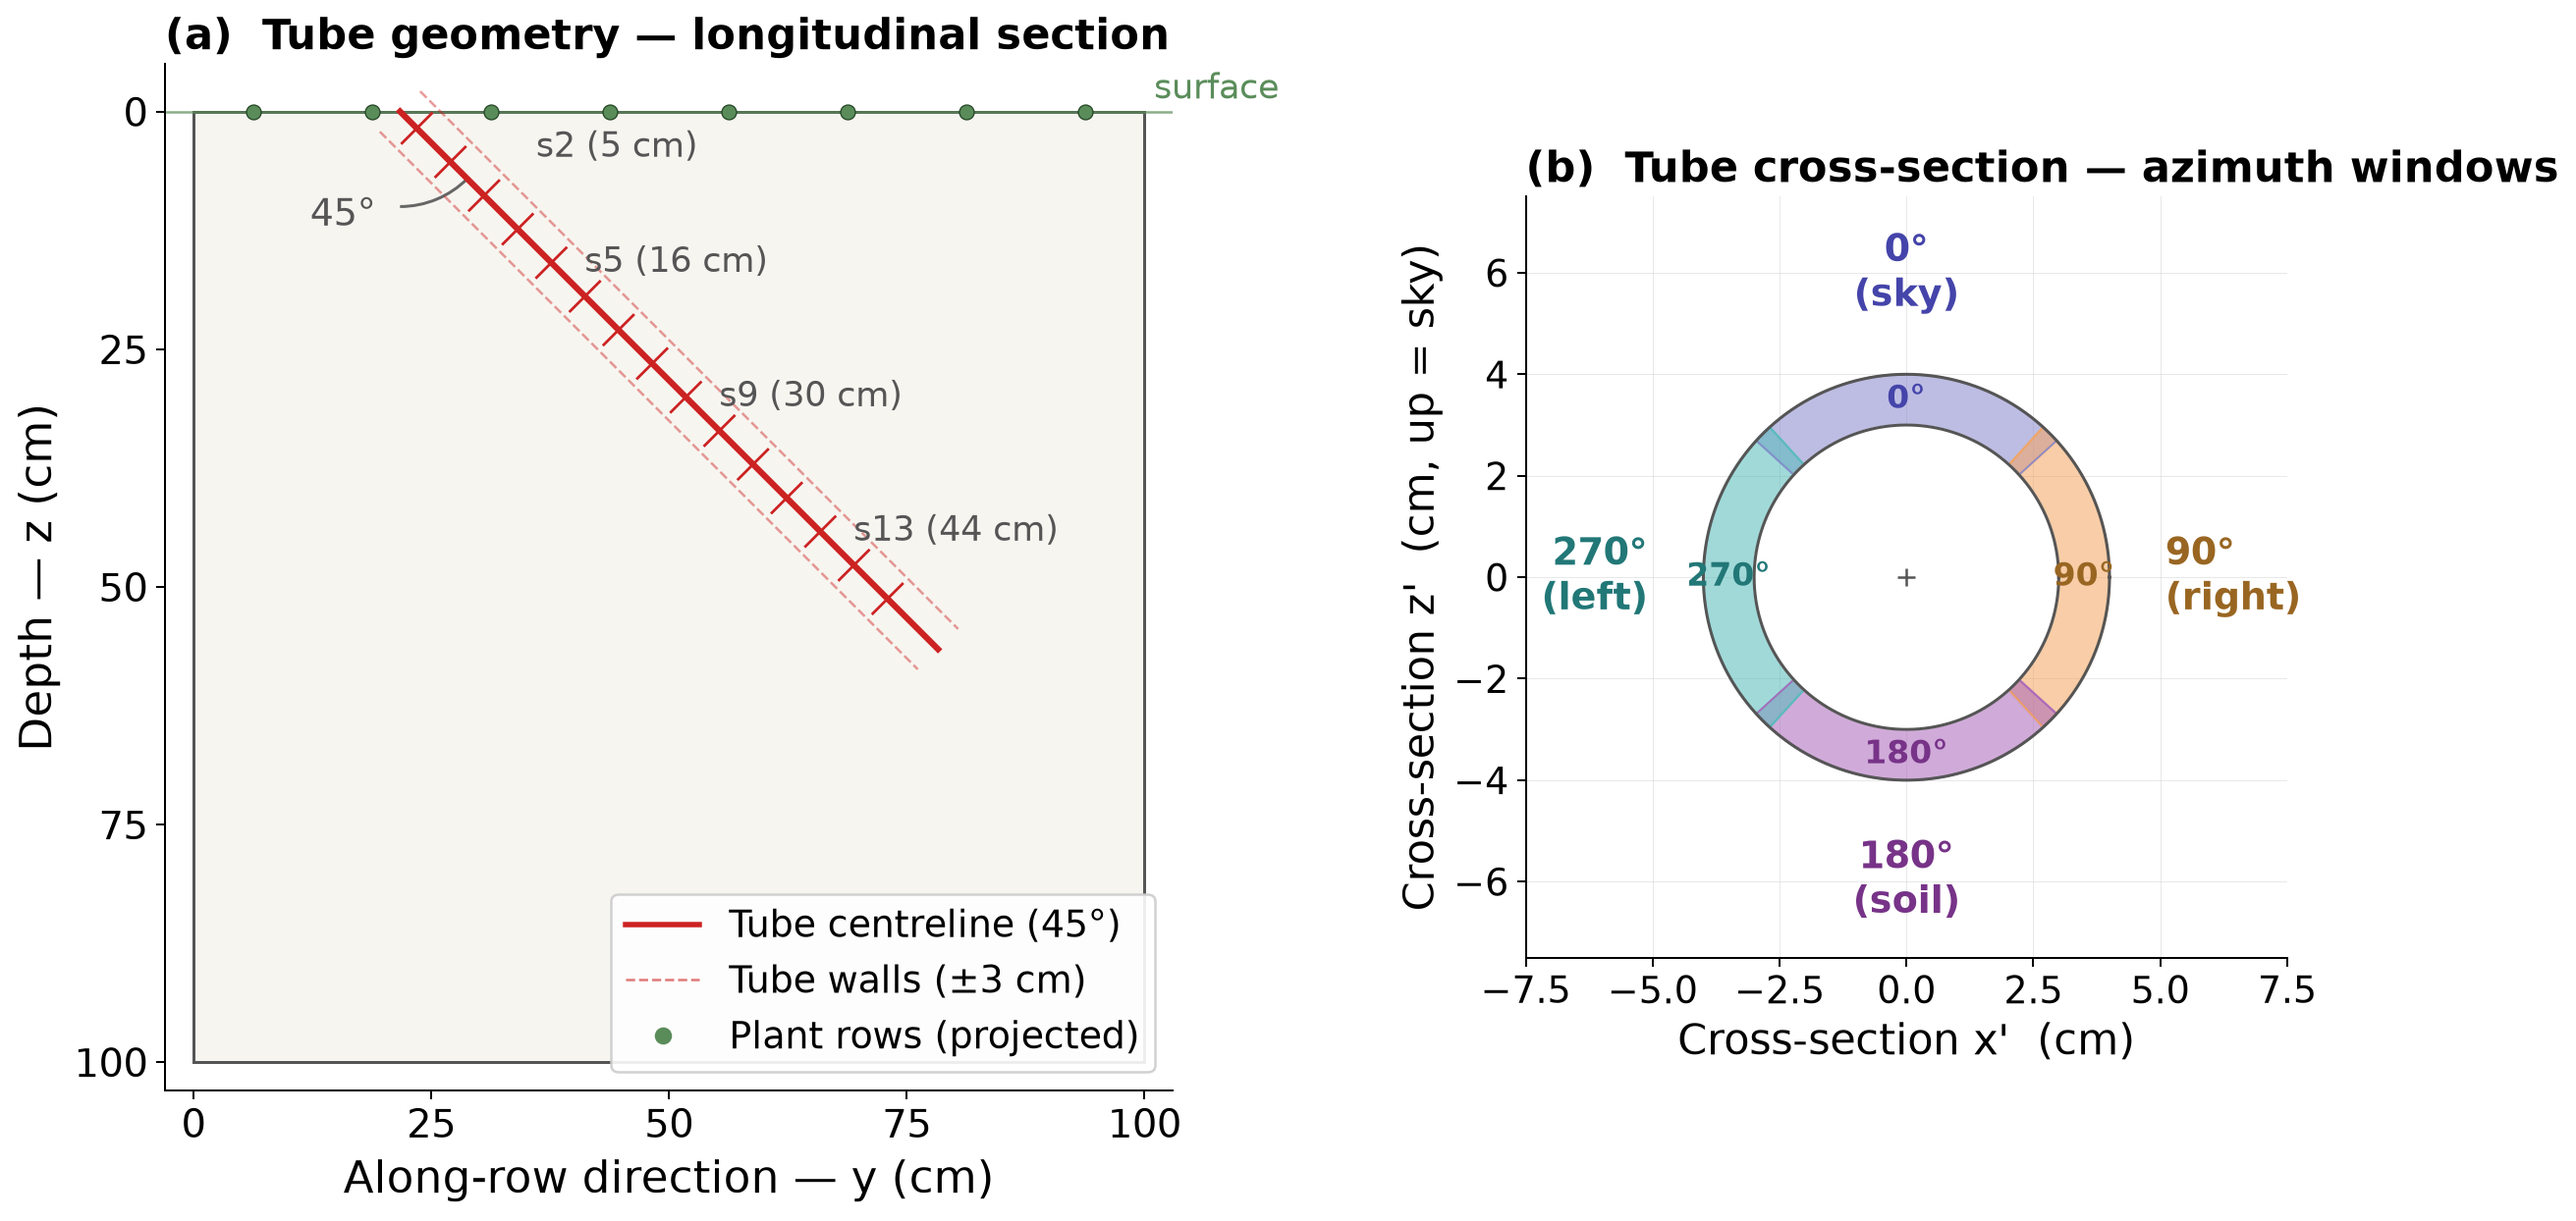
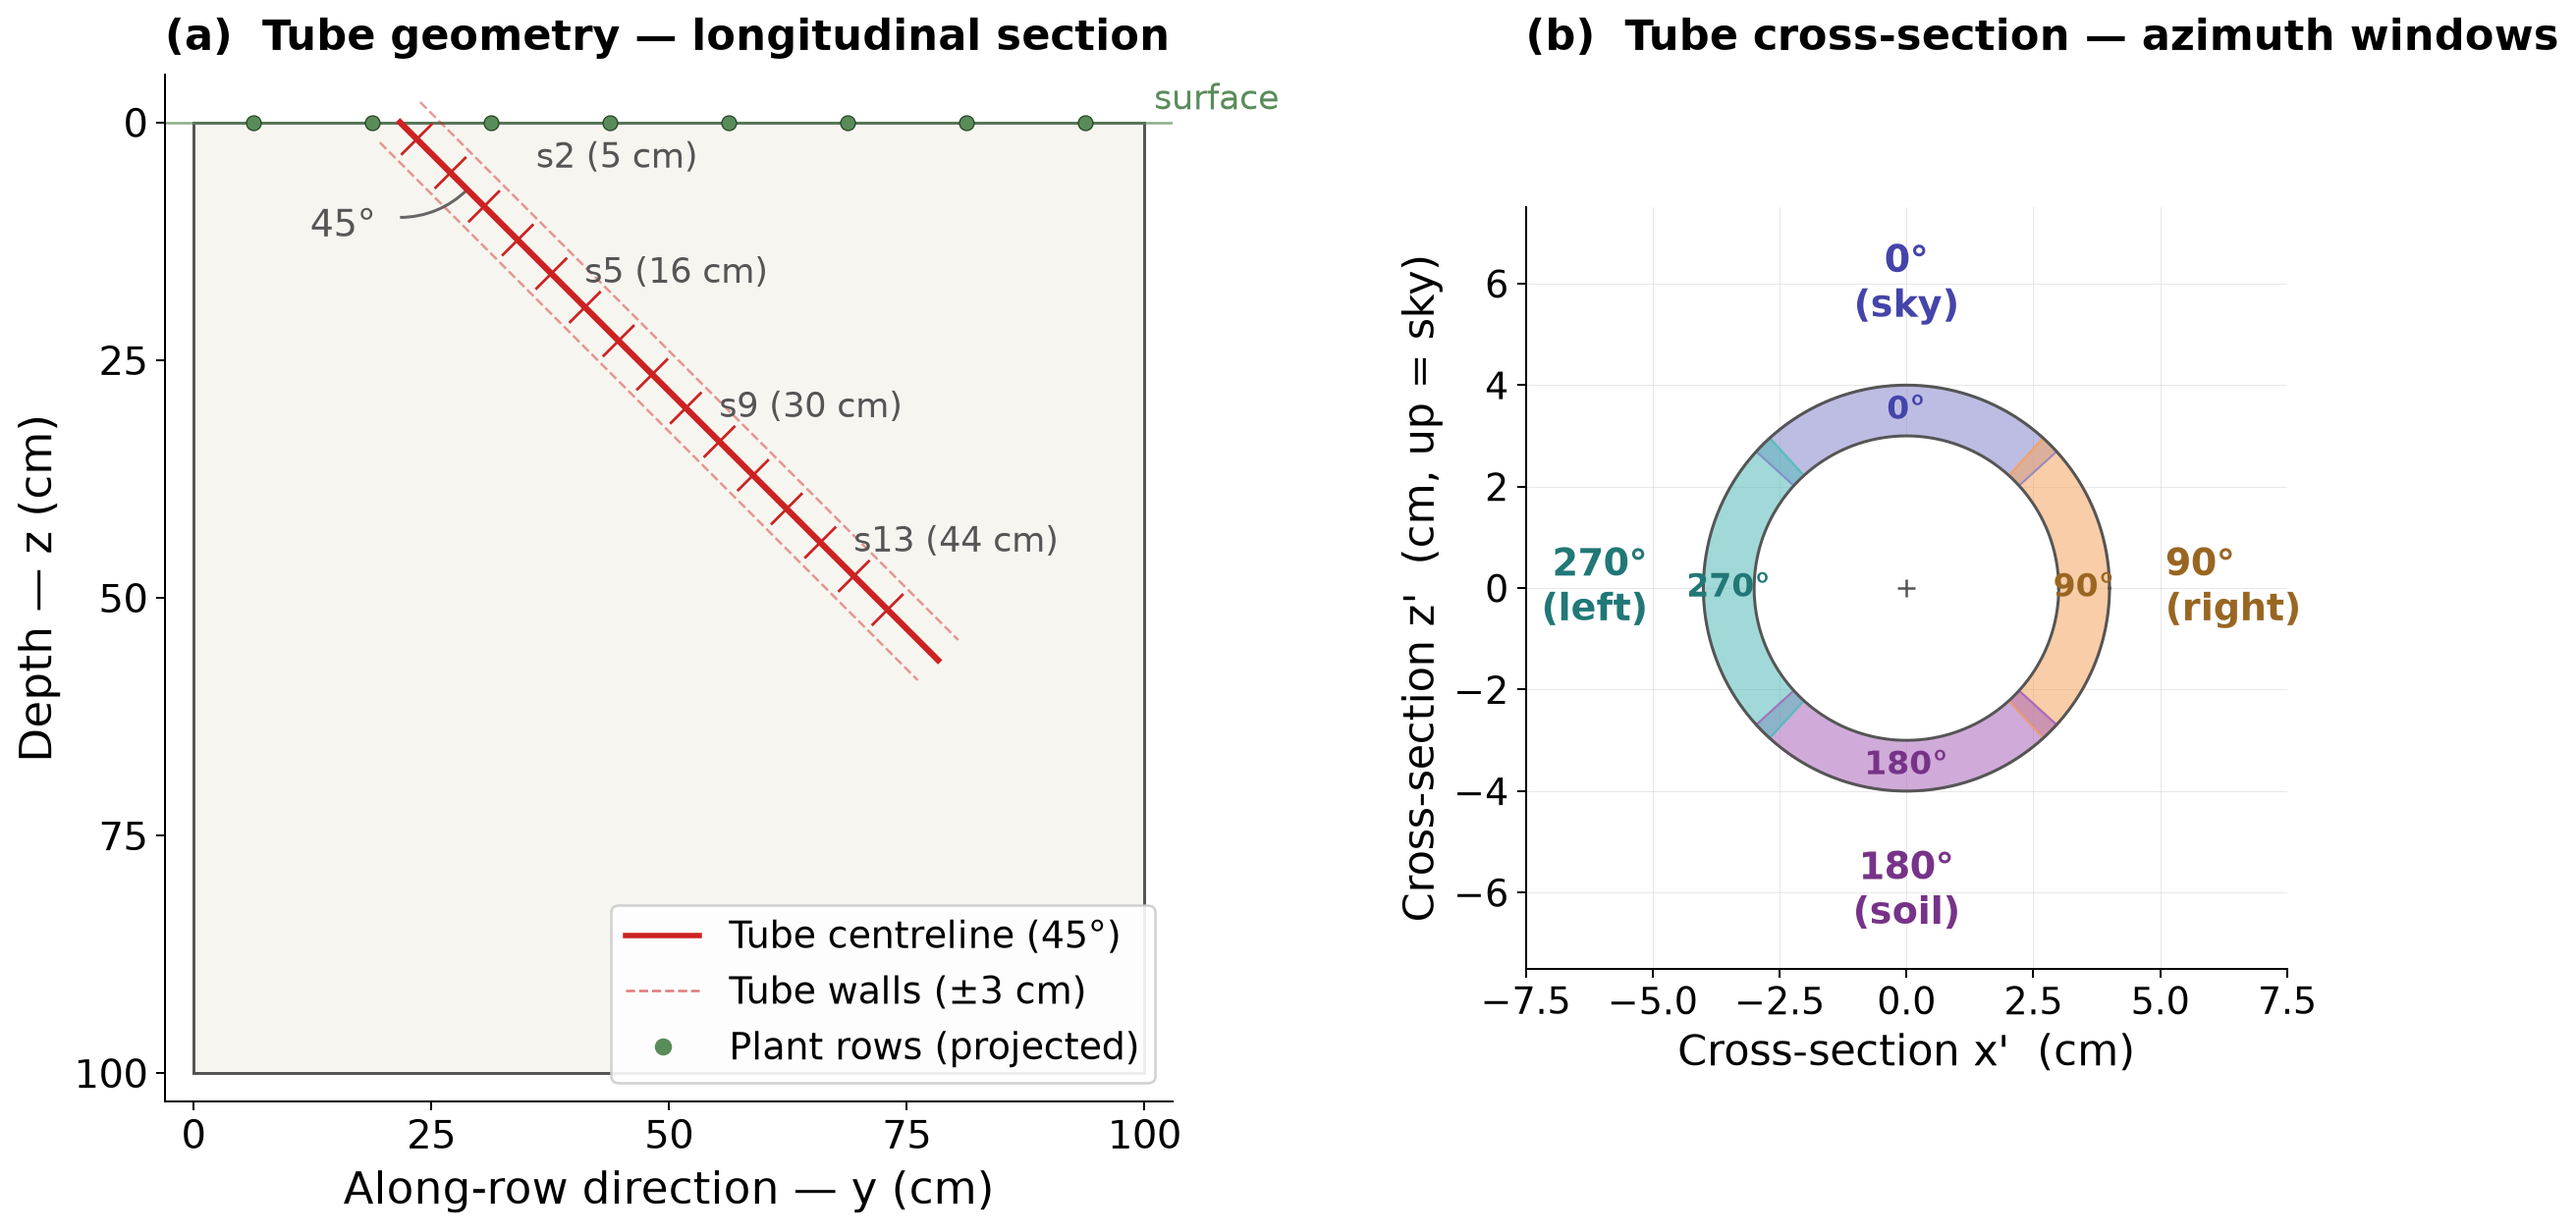
Align Fig S1 panel titles to same height using fig.text
Replace ax.set_title() with fig.text() placed at max(pos_a.y1, pos_b.y1)
so both (a) and (b) subtitles sit at the same absolute y position
regardless of axis height differences.

diff --git a/publication/scripts/plot_figS1_tube_geometry.py b/publication/scripts/plot_figS1_tube_geometry.py
@@ -110,8 +110,7 @@ ax_long.legend(handles=[
     plt.Line2D([0],[0], color=TUBE_C, lw=1.0, ls="--", alpha=0.6, label="Tube walls (±3 cm)"),
     plt.Line2D([0],[0], color=SURF_C, marker="o", ms=6, lw=0, label="Plant rows (projected)"),
 ], fontsize=15, loc="lower right", framealpha=0.9)
-ax_long.set_title("(a)  Tube geometry — longitudinal section",
-                  fontsize=17, fontweight="bold", pad=6, loc="left")
+# title placed below via fig.text at a shared y level
 
 # ── (b) Azimuth cross-section ─────────────────────────────────────────────────
 
@@ -179,8 +178,23 @@ for mpl_deg, lbl, fc, tc in AZ_WINS:
     ax_azim.text(text_r * np.cos(mid_rad), text_r * np.sin(mid_rad),
                  AZ_TEXT[mpl_deg][0], ha=ha, va=va,
                  fontsize=15, color=tc, fontweight="bold", zorder=6)
-ax_azim.set_title("(b)  Tube cross-section — azimuth windows",
-                  fontsize=17, fontweight="bold", pad=6, loc="left")
+# title placed below via fig.text at a shared y level
+
+# ── Shared-height titles (align to the taller axis top) ──────────────────────
+
+fig.canvas.draw()
+pos_a = ax_long.get_position()
+pos_b = ax_azim.get_position()
+title_y = max(pos_a.y1, pos_b.y1) + 0.012
+
+fig.text(pos_a.x0, title_y,
+         "(a)  Tube geometry — longitudinal section",
+         fontsize=17, fontweight="bold", va="bottom", ha="left",
+         transform=fig.transFigure)
+fig.text(pos_b.x0, title_y,
+         "(b)  Tube cross-section — azimuth windows",
+         fontsize=17, fontweight="bold", va="bottom", ha="left",
+         transform=fig.transFigure)
 
 # ── Save ─────────────────────────────────────────────────────────────────────
 
